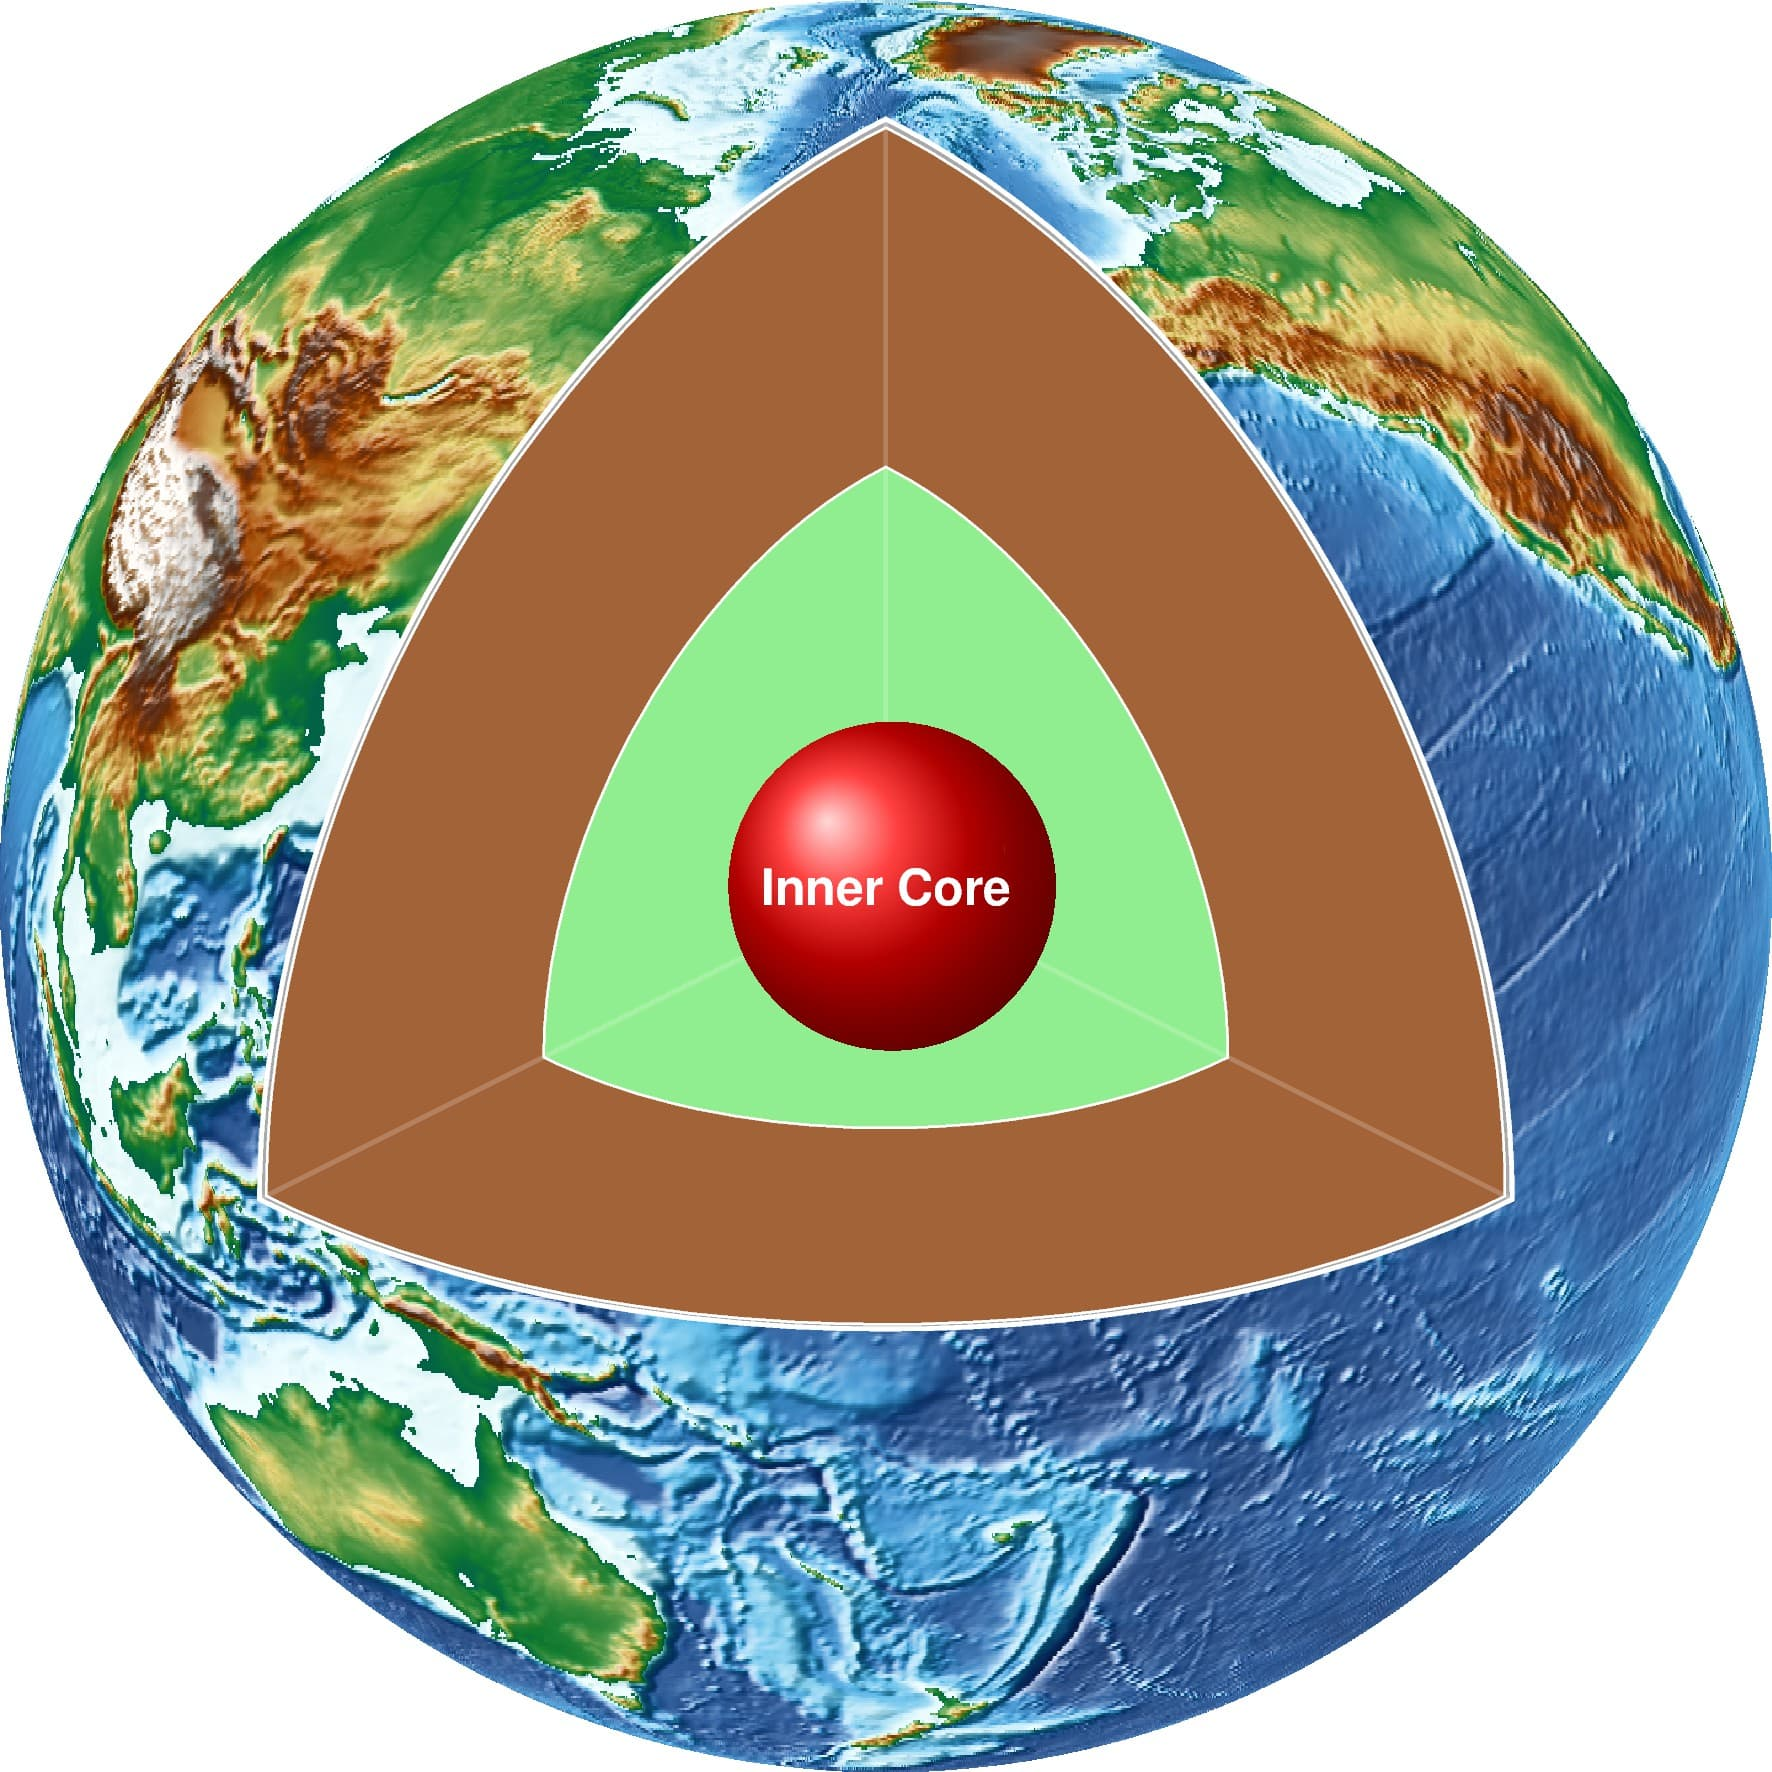
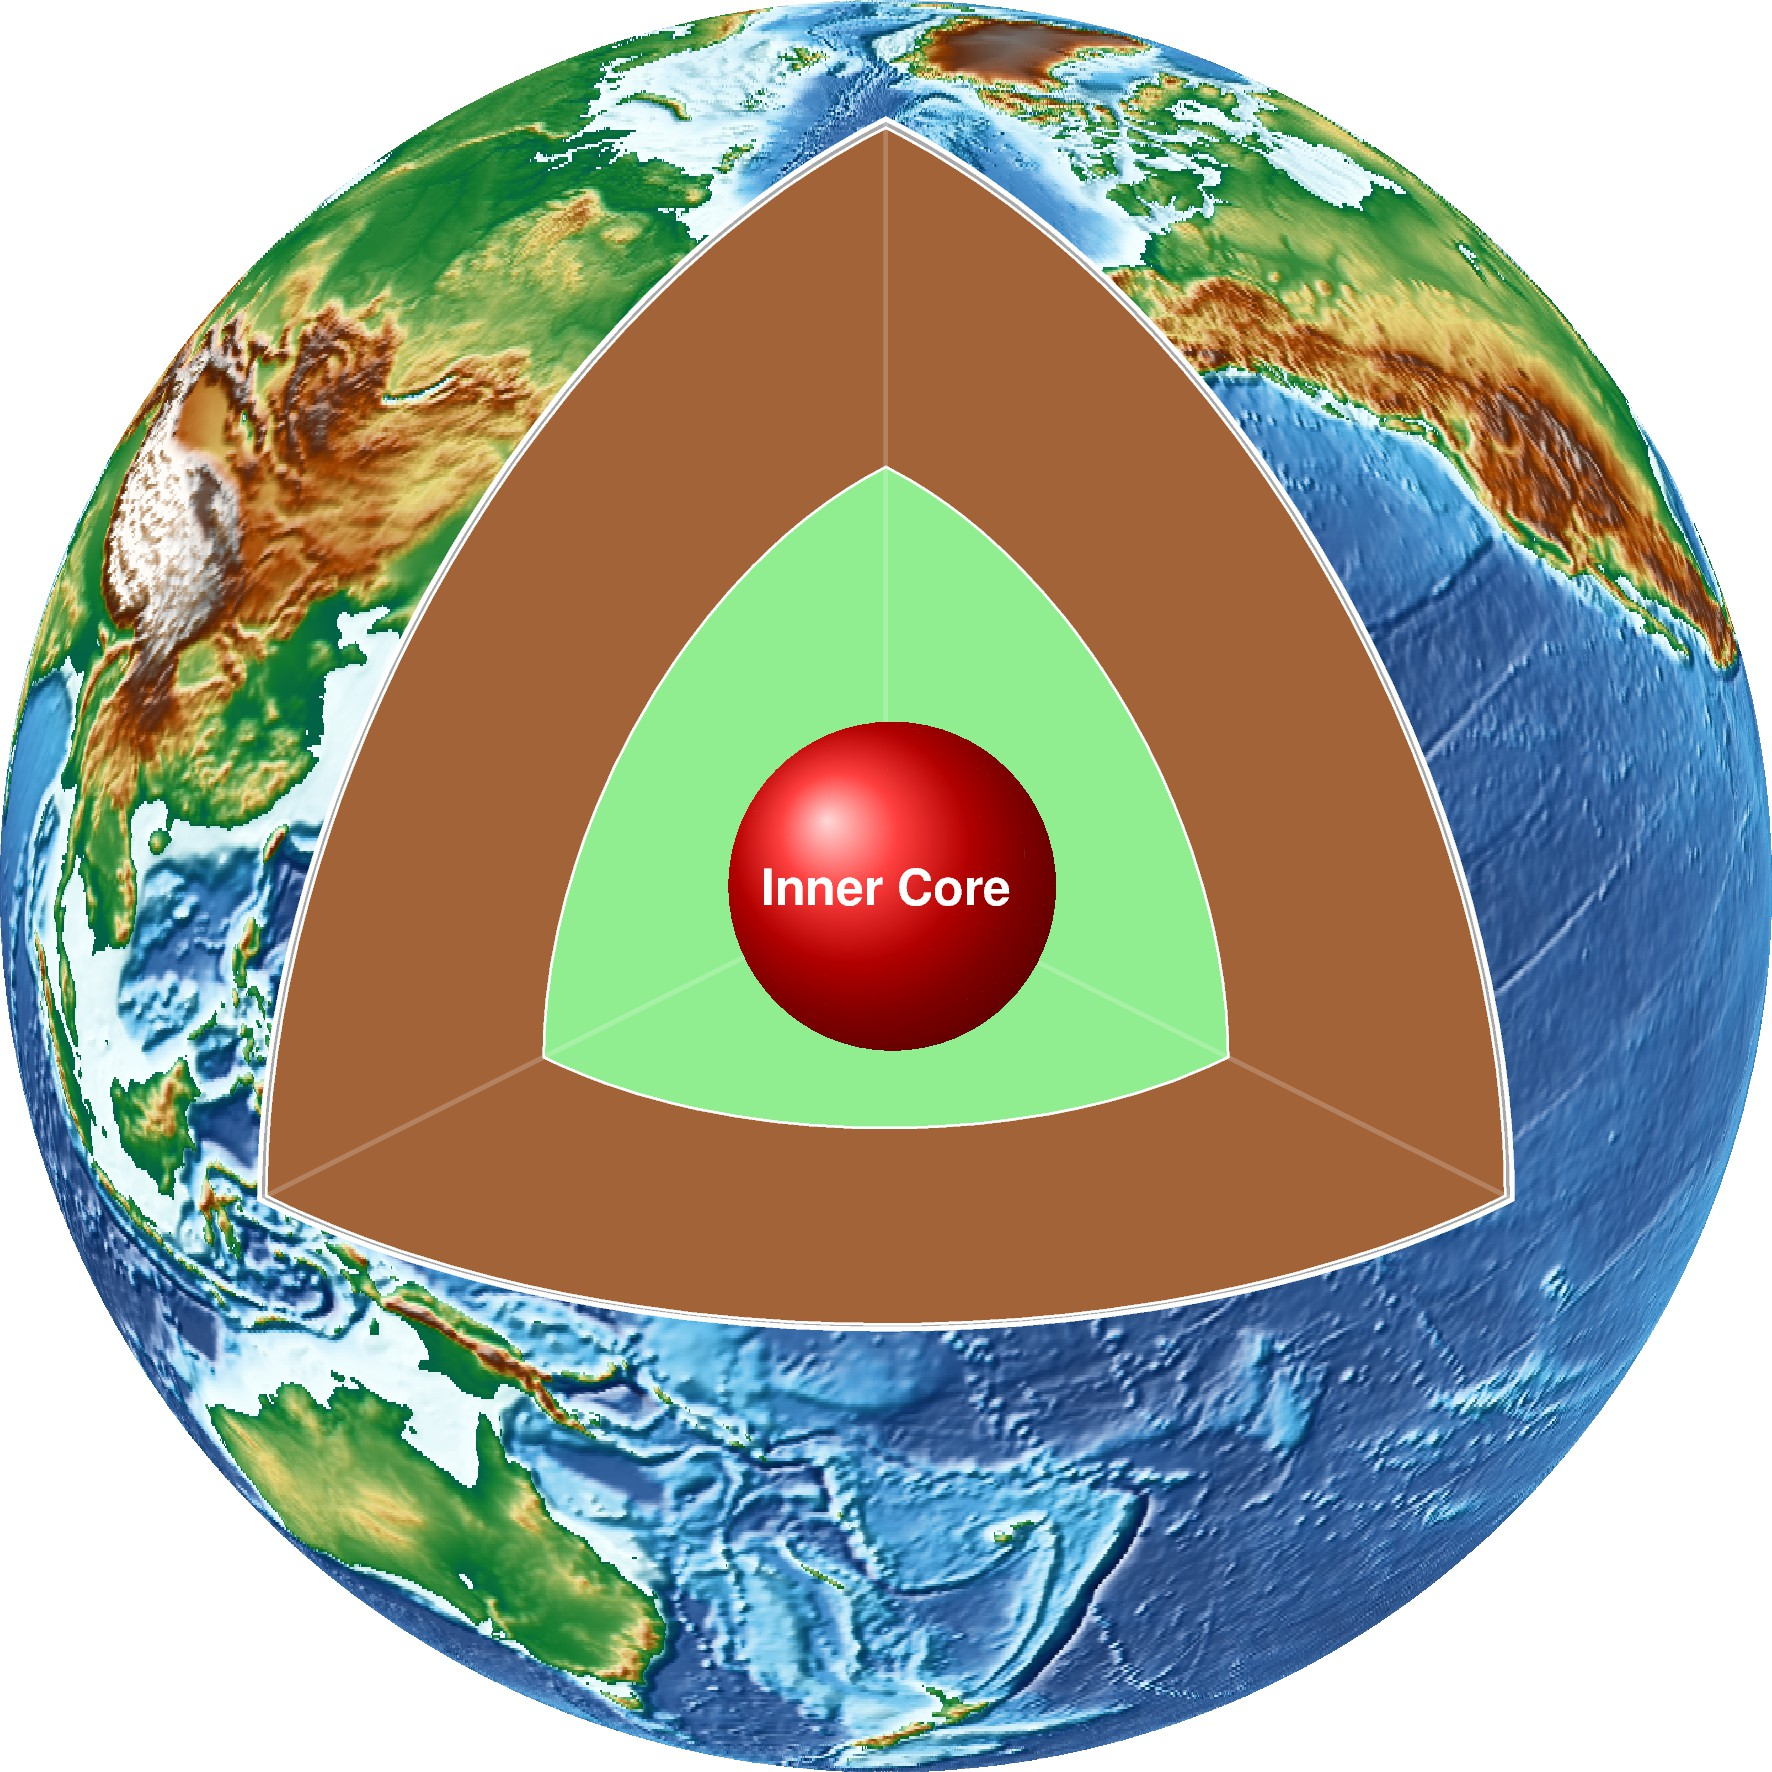
Replace Jupyter Notebook with Python scripts

diff --git a/3DEarth/3DEarth.py b/3DEarth/3DEarth.py
@@ -1,0 +1,87 @@
+#
+# Plot a 3D Earth with reliefs.
+#
+import pygmt
+import numpy as np
+from pygmt.datasets import load_earth_relief
+
+# projection center and size of the Earth
+lon0, lat0, size = 170, 30, 15
+
+grid = load_earth_relief(resolution="15m", region=[-180, 180, -90, 90])
+
+fig = pygmt.Figure()
+# Add the earth relief
+fig.grdimage(grid, projection=f"G{lon0}/{lat0}/{size}c", shading=True, cmap="geo")
+
+# Cut 1/8 of the Earth
+x = [lon0 - 45, lon0 - 45, lon0 + 45]
+y = [90.0, 0.0, 0.0]
+fig.plot(x=x, y=y, fill="darkgray", pen="1p,white")
+
+# Plot Moho
+scale = 6300 / 6371  # Moho with a thickness of 71 km
+newsize = size * scale
+xshift = yshift = size * (1 - scale) / 2.0
+fig.shift_origin(xshift=xshift, yshift=yshift)
+fig.plot(
+    x=x,
+    y=y,
+    fill="162/99/57",
+    pen="0.5p,white",
+    projection=f"G{lon0}/{lat0}/{newsize}c",
+)
+fig.shift_origin(xshift=-xshift, yshift=-yshift)
+
+# Plot CMB
+scale = 3480 / 6371
+newsize = size * scale
+xshift = yshift = size * (1 - scale) / 2.0
+fig.shift_origin(xshift=xshift, yshift=yshift)
+fig.plot(
+    x=x,
+    y=y,
+    fill="lightgreen",
+    pen="0.5p,white",
+    projection=f"G{lon0}/{lat0}/{newsize}c",
+)
+fig.shift_origin(xshift=-xshift, yshift=-yshift)
+
+#### Here, the map projection is switched to linear projection!
+# The following codes are used to plot the XYZ axis. mapproject is not wrapped in PyGMT.
+with pygmt.clib.Session() as lib:
+    with (
+        lib.virtualfile_in(x=x, y=y) as vintbl,
+        lib.virtualfile_out(kind="dataset") as vouttbl,
+    ):
+        lib.call_module(
+            "mapproject", [vintbl, f"-JG{lon0}/{lat0}/{size}c", "-Rg", f"->{vouttbl}"]
+        )
+        result = lib.virtualfile_to_dataset(
+            output_type="pandas", vfname=vouttbl, column_names=["x", "y"]
+        )
+        for x0, y0 in zip(result["x"], result["y"]):
+            fig.plot(
+                x=[x0, size * 0.5],
+                y=[y0, size * 0.5],
+                projection="x1c",
+                region=[0, size, 0, size],
+                pen="1p,white@80",
+            )
+
+# Plot the inner core
+scale = 1221 / 6371
+fig.image("3Dball.eps", position=f"JMC+w{size*scale}c")
+
+# Add more labels
+fig.text(
+    x=size * 0.5,
+    y=size * 0.5,
+    text="Inner Core",
+    font="12p,1,white",
+    projection="x1c",
+    region=[0, size, 0, size],
+)
+
+fig.savefig("3DEarth.jpg")
+fig.show()
